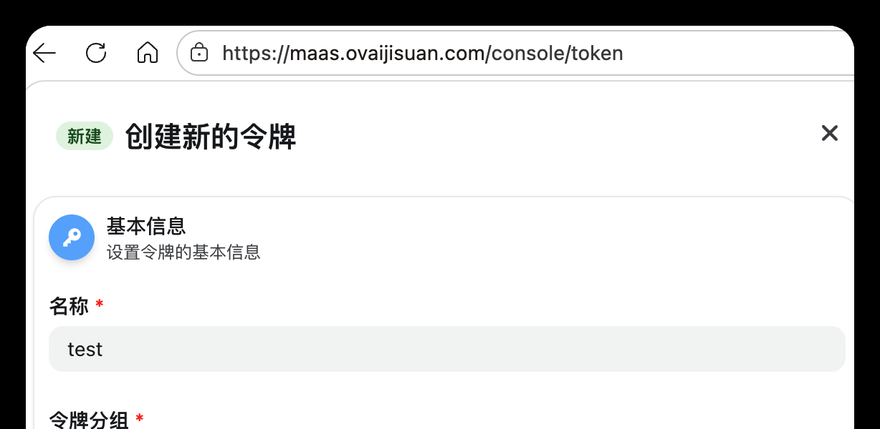
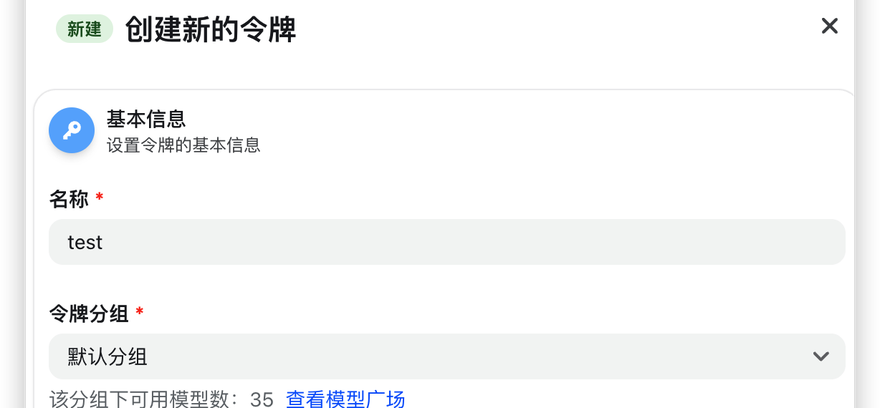
引导页截图裁剪、去黑角，窗口加高到 920

Changed region(s): [[0.0, 0.0, 1.0, 1.0], [0.0614, 0.6765, 0.1841, 0.9118]]

diff --git a/apps/desktop/tests/welcome-window.spec.ts b/apps/desktop/tests/welcome-window.spec.ts
@@ -55,7 +55,7 @@ describe('desktop welcome window', () => {
   it.each(['darwin', 'win32', 'linux'] as const)('keeps the %s preview fixed-size and sandboxed', (platform) => {
     const options = welcomeWindowOptions(platform, resolveDesktopLocale('zh-CN'))
     expect(options).toMatchObject({
-      width: 600, height: 880, useContentSize: true, center: true, show: false,
+      width: 600, height: 920, useContentSize: true, center: true, show: false,
       resizable: false, maximizable: false, fullscreenable: false,
       webPreferences: {
         nodeIntegration: false, contextIsolation: true, sandbox: true, webSecurity: true,

diff --git a/apps/desktop/src/welcome-window.ts b/apps/desktop/src/welcome-window.ts
@@ -16,7 +16,7 @@ import { WELCOME_IPC, type WelcomeOperations } from './welcome-api.ts'
 export function welcomeWindowOptions(platform: NodeJS.Platform, locale: DesktopLocale, dark = false): BrowserWindowConstructorOptions {
   return {
     width: 600,
-    height: 880,
+    height: 920,
     useContentSize: true,
     center: true,
     resizable: false,
